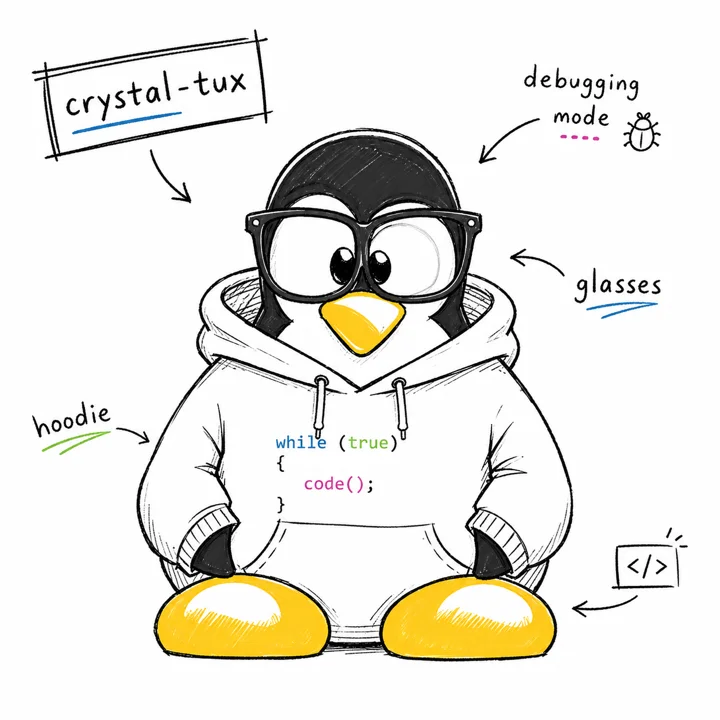
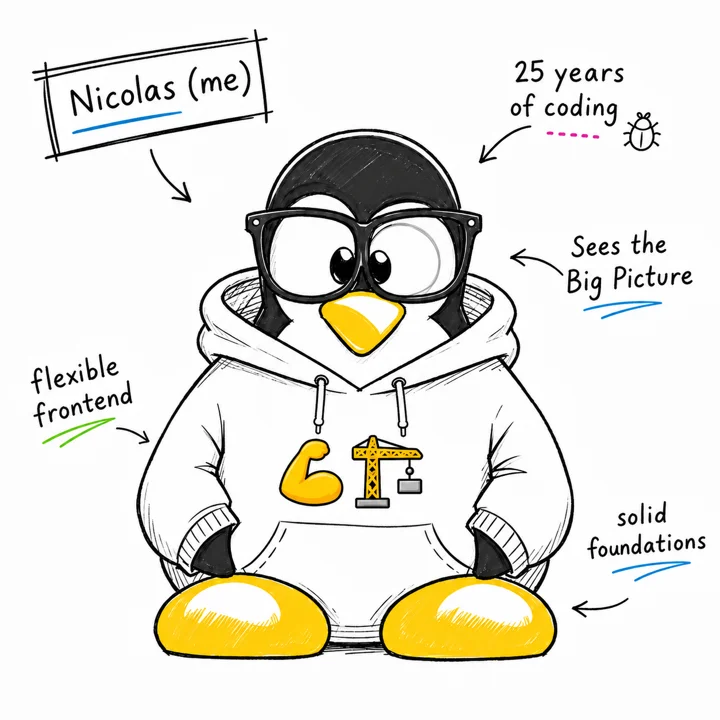
feat(design-system): presentation mascot in the hero, caption anchored to it
The hero shows the new niktux-presentation picture and the CTA niktux-thinks.
The hero figure wraps the mascot exactly, so the caption and its squiggle sit
at a share of the mascot's size at any screen width. A brightness lift turns
the mascots' near-white background into the paper.

diff --git a/packages/robusta-design-system/sketch.css b/packages/robusta-design-system/sketch.css
@@ -454,9 +454,9 @@
   font-size: var(--t-small);
   color: var(--ink-mute);
 }
-.sk-hero__figure { position: relative; text-align: center; min-width: 0; }
-/* the mascot is ink on white: multiply turns its white into the paper under it */
-.sk-hero__mascot { height: 240px; max-width: 100%; object-fit: contain; mix-blend-mode: multiply; }
+.sk-hero__figure { position: relative; justify-self: center; width: fit-content; max-width: 100%; text-align: center; }
+/* the mascot is ink on near-white: brightness lifts that to pure white, which multiply turns into the paper under it */
+.sk-hero__mascot { height: 240px; max-width: 100%; object-fit: contain; mix-blend-mode: multiply; filter: brightness(1.02); }
 .sk-hero__annotation {
   font-family: var(--font-sans);
   font-size: var(--t-small);
@@ -464,7 +464,7 @@
   transform: rotate(4deg);
   margin-top: var(--sp-4);
 }
-/* the little pointing squiggle: it aims at the mascot from a fixed offset,
+/* the little pointing squiggle: it aims at the mascot from the caption,
    which only means anything once the figure sits in its own column. */
 .sk-hero__doodle { display: none; }
 
@@ -610,7 +610,7 @@
   gap: var(--sp-4);
   margin-top: var(--sp-6);
 }
-.sk-flow-diagram__mascot { height: 96px; max-width: 100%; object-fit: contain; mix-blend-mode: multiply; }
+.sk-flow-diagram__mascot { height: 96px; max-width: 100%; object-fit: contain; mix-blend-mode: multiply; filter: brightness(1.02); }
 .sk-flow-diagram__bubble { max-width: 320px; }
 .sk-flow-diagram__caveat-text {
   font-family: var(--font-sans);
@@ -739,7 +739,7 @@
   height: 110px;
   max-width: 100%;
   object-fit: contain;
-  mix-blend-mode: multiply;
+  mix-blend-mode: multiply; filter: brightness(1.02);
   margin-bottom: var(--sp-2);
 }
 .sk-cta__title {
@@ -897,11 +897,13 @@
   .sk-site-header__nav       { gap: var(--sp-6); }
 }
 
-/* -------- xl — the hero annotation returns to the margin it points from -------- */
+/* -------- xl — the caption leaves the flow for the mascot's top-right corner.
+   The figure is exactly the mascot's box, so every offset below is a share of
+   the mascot: the caption and its squiggle follow it at any screen width -------- */
 @media (min-width: 80rem) {
   .sk-hero__grid       { gap: var(--sp-7); }
-  .sk-hero__annotation { position: absolute; top: 30px; right: 0; margin-top: 0; }
-  .sk-hero__doodle     { display: block; position: absolute; top: 60px; right: 50px; width: 80px; height: 60px; }
+  .sk-hero__annotation { position: absolute; top: 2%; left: 92%; width: max-content; max-width: 11em; margin-top: 0; text-align: left; }
+  .sk-hero__doodle     { display: block; position: absolute; top: 14%; left: 86%; width: 22%; height: auto; aspect-ratio: 4 / 3; }
 }
 
 /* -------- 2xl — the sections reach the proportions they render at their

diff --git a/apps/robusta-build/src/seopyramids.config.ts b/apps/robusta-build/src/seopyramids.config.ts
@@ -190,7 +190,7 @@ const en: PageCopy = {
         'I’m Nicolas Zozol, twenty years in software. RB Compound is how I build software with AI agents: each feature gets a story and a design, you approve the design, and only then do the agents write the code, tests first. I work with teams and technical leads who build software with agents.',
       emailLabel: 'write me an email',
       linkedInLabel: 'see my LinkedIn profile',
-      mascotAlt: 'Niktux, the penguin mascot of Robusta Build',
+      mascotAlt: 'Nicolas drawn as Niktux, a penguin in a Robusta Build hoodie: 25 years of coding, sees the big picture, flexible frontend, solid foundations',
       annotation: 'this is niktux, watching over the code.',
     },
     openSource: {
@@ -320,7 +320,7 @@ const fr: PageCopy = {
         'Je suis Nicolas Zozol, vingt ans de logiciel. RB Compound est ma façon de construire du logiciel avec des agents IA : chaque feature a sa story et son design, vous approuvez le design, et seulement ensuite les agents écrivent le code, tests d’abord. Je travaille avec les équipes et les responsables techniques qui construisent du logiciel avec des agents.',
       emailLabel: 'm’écrire un e-mail',
       linkedInLabel: 'voir mon profil LinkedIn',
-      mascotAlt: 'Niktux, le manchot mascotte de Robusta Build',
+      mascotAlt: 'Nicolas dessiné en Niktux, un manchot en sweat Robusta Build : 25 ans de code, la vue d’ensemble, un frontend souple, des fondations solides',
       annotation: 'voici niktux, qui veille sur le code.',
     },
     openSource: {
@@ -452,7 +452,7 @@ const es: PageCopy = {
         'Soy Nicolas Zozol, veinte años en el software. RB Compound es mi forma de construir software con agentes de IA: cada feature tiene su story y su design, tú apruebas el design, y solo entonces los agentes escriben el código, con los tests primero. Trabajo con equipos y responsables técnicos que construyen software con agentes.',
       emailLabel: 'escribirme un e-mail',
       linkedInLabel: 'ver mi perfil de LinkedIn',
-      mascotAlt: 'Niktux, el pingüino mascota de Robusta Build',
+      mascotAlt: 'Nicolas dibujado como Niktux, un pingüino con sudadera de Robusta Build: 25 años programando, visión de conjunto, frontend flexible, bases sólidas',
       annotation: 'aquí está niktux, que vigila el código.',
     },
     openSource: {

diff --git a/apps/robusta-build/src/design-system/assets.ts b/apps/robusta-build/src/design-system/assets.ts
@@ -8,8 +8,8 @@
  * Design: features/__done/pyramid-v2-epic/__done/robusta-landing-page/robusta-landing-page.design.md
  * Requirements: R-LANDING-82
  */
-import heroMascot from '@robusta/pyramids-design-system/assets/niktux-thinks.webp';
-import ctaMascot from '@robusta/pyramids-design-system/assets/niktux-presentation.webp';
+import heroMascot from '@robusta/pyramids-design-system/assets/niktux-presentation.webp';
+import ctaMascot from '@robusta/pyramids-design-system/assets/niktux-thinks.webp';
 import wordmark from '@robusta/pyramids-design-system/assets/robusta-build-wordmark.svg';
 
 /**
@@ -19,8 +19,8 @@ import wordmark from '@robusta/pyramids-design-system/assets/robusta-build-wordm
  */
 export const wordmarkSrc: string = wordmark;
 
-/** `niktux-thinks.webp`, the hero's mascot, at the URL the bundler published it under. */
+/** `niktux-presentation.webp`, the hero's mascot, at the URL the bundler published it under. */
 export const heroMascotSrc: string = heroMascot;
 
-/** `niktux-presentation.webp`, the closing block's mascot, at the URL the bundler published it under. */
+/** `niktux-thinks.webp`, the closing block's mascot, at the URL the bundler published it under. */
 export const ctaMascotSrc: string = ctaMascot;

diff --git a/packages/robusta-design-system/README.md b/packages/robusta-design-system/README.md
@@ -46,7 +46,7 @@ import thinks   from '@robusta/pyramids-design-system/assets/niktux-thinks.webp'
 Available assets:
 - Niktux, the mascot, in six WebP illustrations:
   - `niktux-thinks.webp` — thinking, 720×720
-  - `niktux-presentation.webp` — giving a presentation, 720×720
+  - `niktux-presentation.webp` — Nicolas as Niktux, with handwritten notes around him, 720×720
   - `niktux-working-hard.webp` — working hard, 720×720
   - `niktux-throw-money.webp` — throwing money, 720×720
   - `niktux-furious-at-computer.webp` — furious at the computer, 720×600
